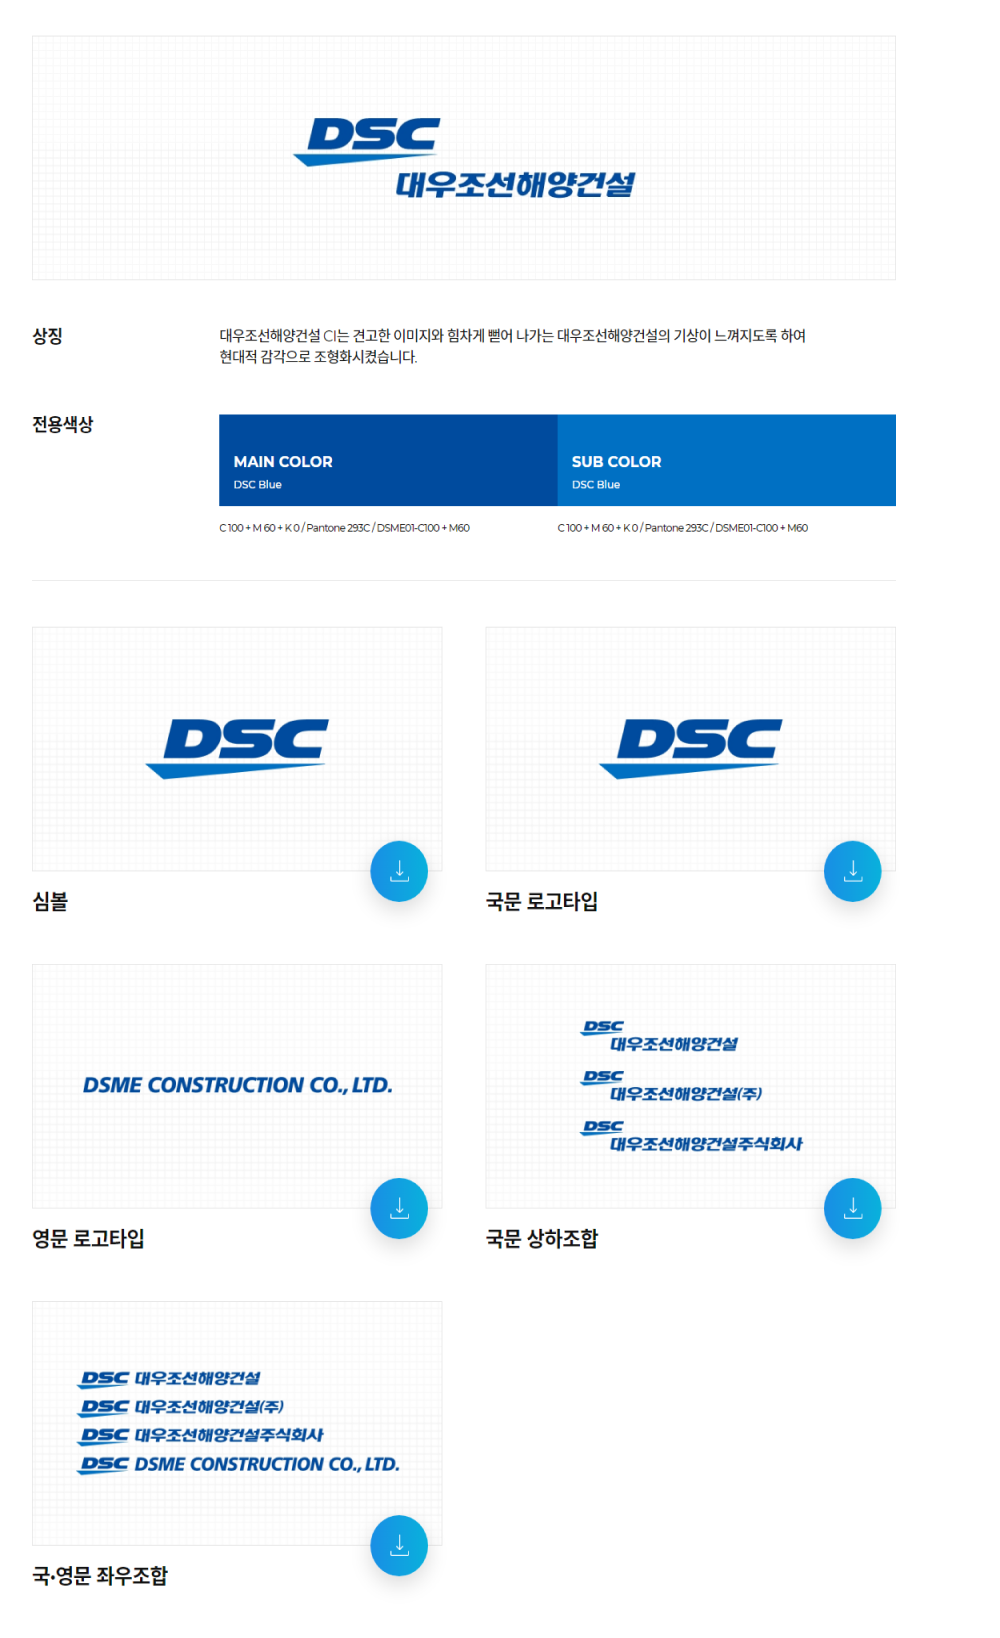
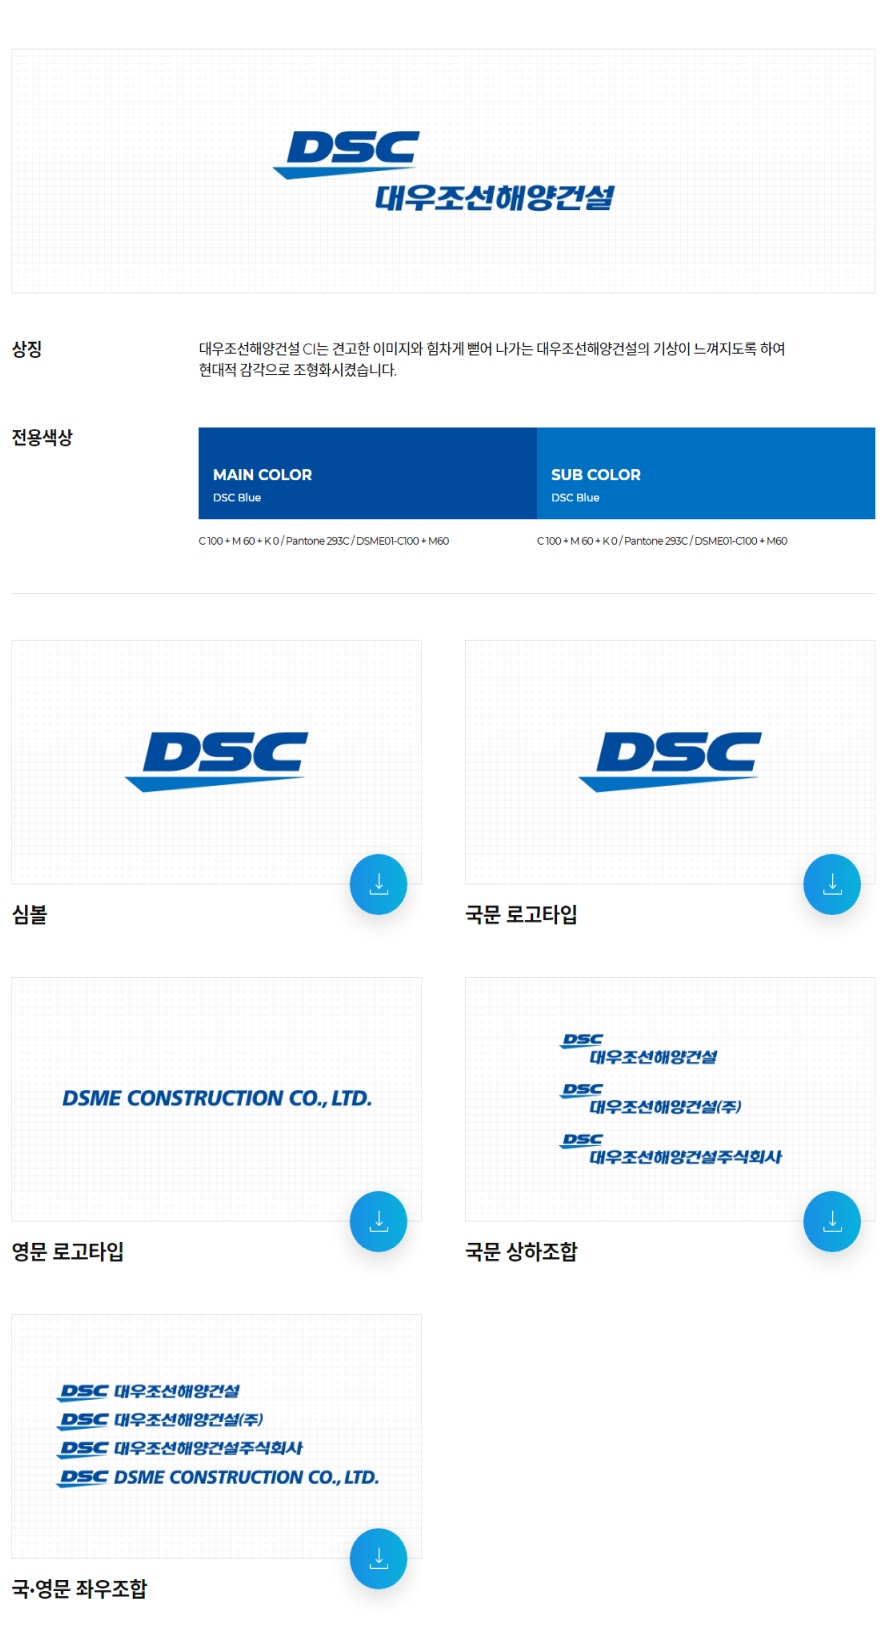
up

diff --git a/company/css/promotion.css b/company/css/promotion.css
@@ -207,15 +207,23 @@ body{
     }
     .box div>img{
         position: relative;
-        left: 150px;
+        left: 65px;
         margin-top: 30px;
+    }
+    .ci{
+        position: relative;
+        left: 125px;
+       
     }
     .location {
         display: flex;
         width: 600px;
         _background-color: aquamarine;
+       
     } 
-
+    .location>a.on {
+        color: #0633af;
+    }
     .conSubTit {
         color: rgb(3, 40, 109);
         font-size: 30px;
@@ -632,19 +640,13 @@ body{
 
     /*이미지조정*/
 
-     .box div>img{
+    .box div>img{
         position: relative;
-        left: 150px;
+        left: 50px;
         margin-top: 30px;
         width: 400px;
-    } 
-
-    .box div>img {
-        position: relative;
-        left: 70px;
-        margin-top: 30px;
     }
-    
+   
     /*footer*/
     #footer{
         position: relative;

diff --git a/company/promotion.html b/company/promotion.html
@@ -168,7 +168,7 @@
                   <img src="images/location_arrow.png" alt="">
                   <a href="company.html">사업소개</a>
                   <img src="images/location_arrow.png" alt="">
-                  <a href="#" class="coLocation on">CI/BI</a>
+                  <a href="#" class="coLocation">CI/BI</a>
                 </section>
 
                 <section class="subBox">
@@ -179,8 +179,11 @@
                   <p class="main">대우조선해양건설은<br>
                     획기적인 건축기술로 다양한 사업에 참여합니다.</p>
                 </section> -->
-
-                <img src="./images/ci 2.png">
+                
+                <section class="ci">
+                  <img src="./images/ci 2.png">
+                </section>
+          
               </div>  <!--CI/BI-->
 
               <div>
